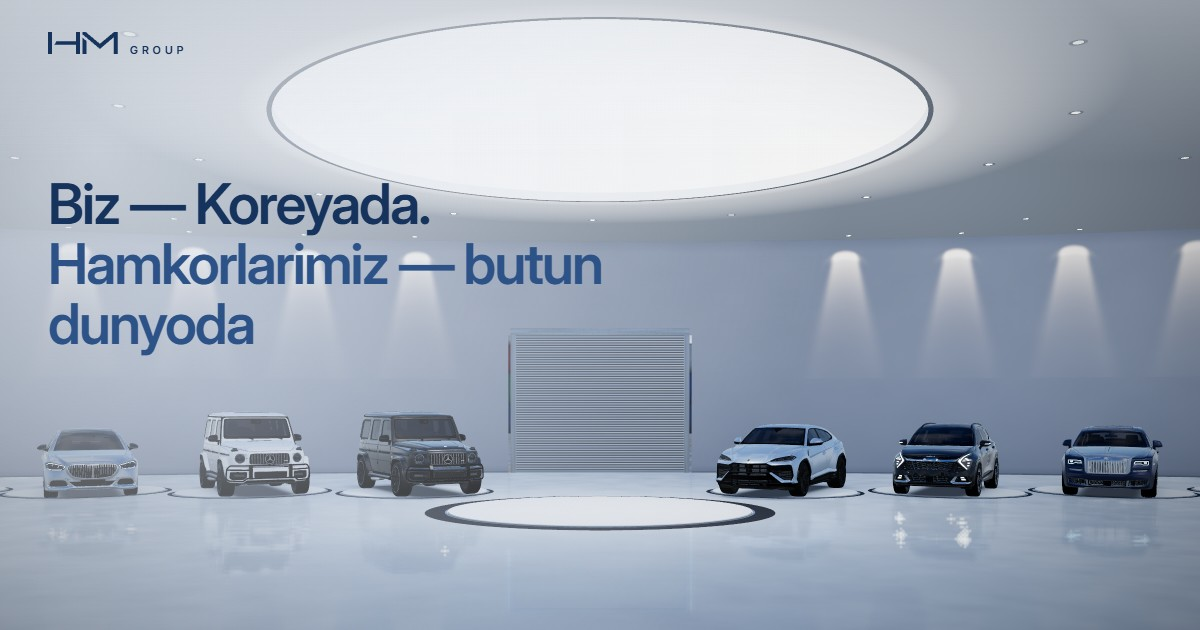
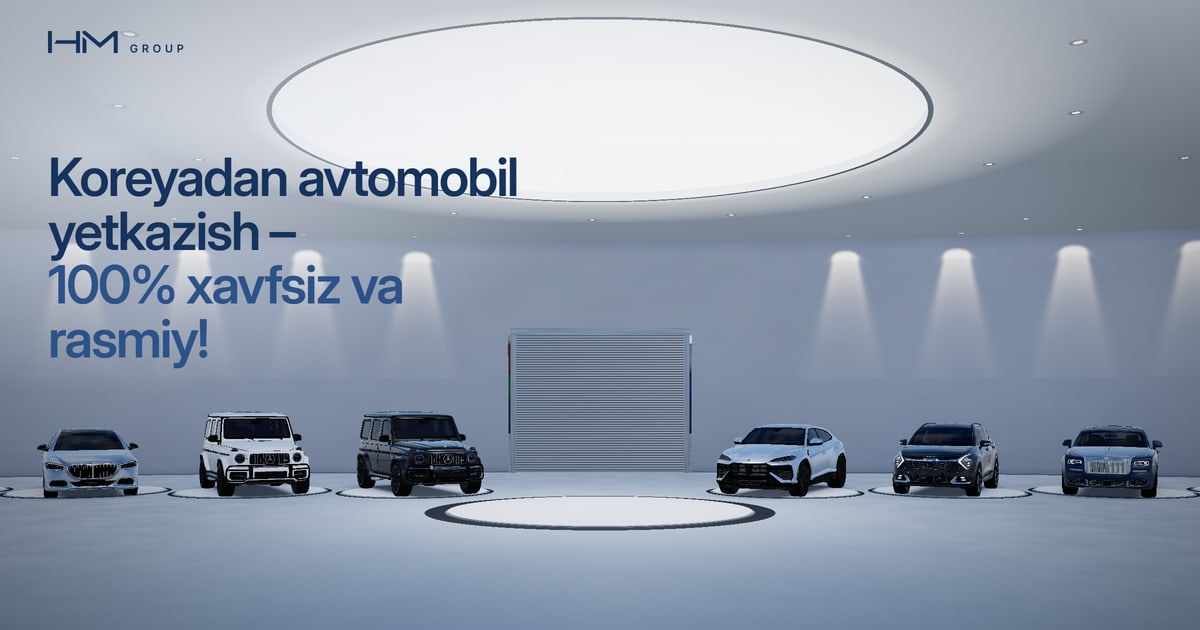
Havola rasmi (og.jpg) saytning hozirgi ko'rinishidan yangilandi
Yangi sarlavha, hozirgi garaj va 11 ta mashina. Rasm manziliga fayl xeshi
qo'shildi (og.jpg?v=...): rasm almashsa Telegram eski rasmni ko'rsatmaydi.

diff --git a/index.html b/index.html
@@ -14,7 +14,7 @@
   <meta property="og:url" content="%SITE_URL%/" />
   <meta property="og:title" content="HM Group – Koreyadan avtomobillar" />
   <meta property="og:description" content="Biz – Koreyada. Hamkorlarimiz – butun dunyoda. Koreyadan avtomobilni tanlaymiz, xarid qilamiz va konteynerda 40–45 kunda yetkazamiz." />
-  <meta property="og:image" content="%SITE_URL%/og.jpg" />
+  <meta property="og:image" content="%SITE_URL%/og.jpg?v=%OG_V%" />
   <meta property="og:image:type" content="image/jpeg" />
   <meta property="og:image:width" content="1200" />
   <meta property="og:image:height" content="630" />
@@ -24,7 +24,7 @@
   <meta name="twitter:card" content="summary_large_image" />
   <meta name="twitter:title" content="HM Group – Koreyadan avtomobillar" />
   <meta name="twitter:description" content="Biz – Koreyada. Hamkorlarimiz – butun dunyoda." />
-  <meta name="twitter:image" content="%SITE_URL%/og.jpg" />
+  <meta name="twitter:image" content="%SITE_URL%/og.jpg?v=%OG_V%" />
   <link rel="icon" type="image/svg+xml" href="/favicon.svg" />
   <link rel="icon" type="image/png" sizes="32x32" href="/favicon-32.png" />
   <link rel="apple-touch-icon" href="/apple-touch-icon.png" />

diff --git a/vite.config.js b/vite.config.js
@@ -1,5 +1,6 @@
 import { defineConfig } from 'vite';
 import fs from 'node:fs';
+import crypto from 'node:crypto';
 import path from 'node:path';
 import { GARAGE, GARAGE_START } from './src/data/cars.js';
 
@@ -41,11 +42,13 @@ const preloadHero = {
   },
 };
 
-// Saytning asosiy manzili: ijtimoiy tarmoqlar preview rasmni (og:image) faqat to'liq manzil bilan oladi
+// Saytning asosiy manzili: ijtimoiy tarmoqlar preview rasmni (og:image) faqat to'liq manzil bilan oladi.
+// Rasm manzilida fayl xeshi (%OG_V%): og.jpg o'zgarsa manzil ham o'zgaradi — Telegram eski rasmni ko'rsatmaydi
 const SITE_URL = (process.env.SITE_URL || 'https://hmgroup-uz.vercel.app').replace(/\/$/, '');
+const OG_V = crypto.createHash('md5').update(fs.readFileSync(path.resolve('public/og.jpg'))).digest('hex').slice(0, 10);
 const socialMeta = {
   name: 'social-meta',
-  transformIndexHtml: { order: 'pre', handler: (html) => html.replaceAll('%SITE_URL%', SITE_URL) },
+  transformIndexHtml: { order: 'pre', handler: (html) => html.replaceAll('%SITE_URL%', SITE_URL).replaceAll('%OG_V%', OG_V) },
 };
 
 export default defineConfig({

diff --git a/README.md b/README.md
@@ -63,8 +63,9 @@ npm run deploy
 
 Bu saytni yig'adi va Vercel'dagi `hmgroup-uz` loyihasiga yuklaydi (bir marta `vercel login` kerak).
 
-Telegram, Instagram, WhatsApp'da havola rasm bilan chiqadi: rasm — `public/og.jpg` (1200×630),
-sarlavha va matn — `index.html` dagi `og:` teglari. Manzil o'zgarsa, `tools/deploy.mjs` dagi `PROJECT` ni o'zgartiring.
+Telegram, Instagram, WhatsApp'da havola rasm bilan chiqadi: rasm — `public/og.jpg` (1200×630, saytning
+o'zidan olingan: garaj, 11 ta mashina va sarlavha), sarlavha va matn — `index.html` dagi `og:` teglari.
+Rasm manziliga fayl xeshi qo'shiladi (`og.jpg?v=...`, `vite.config.js`): rasm almashtirilsa manzil ham o'zgaradi. Manzil o'zgarsa, `tools/deploy.mjs` dagi `PROJECT` ni o'zgartiring.
 Telegram eski preview'ni eslab qolsa, @WebpageBot ga havolani yuboring — u yangilaydi.
 
 Zaxira: `npm run deploy:github` — GitHub Pages'ga (`gh-pages` branch).
